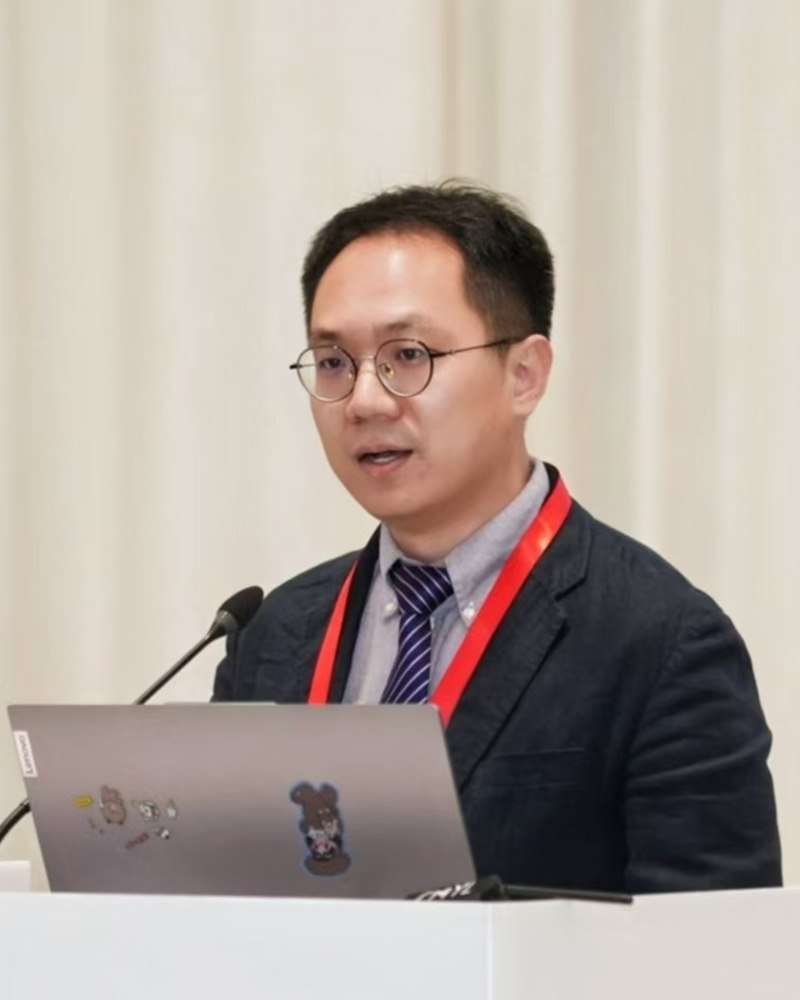
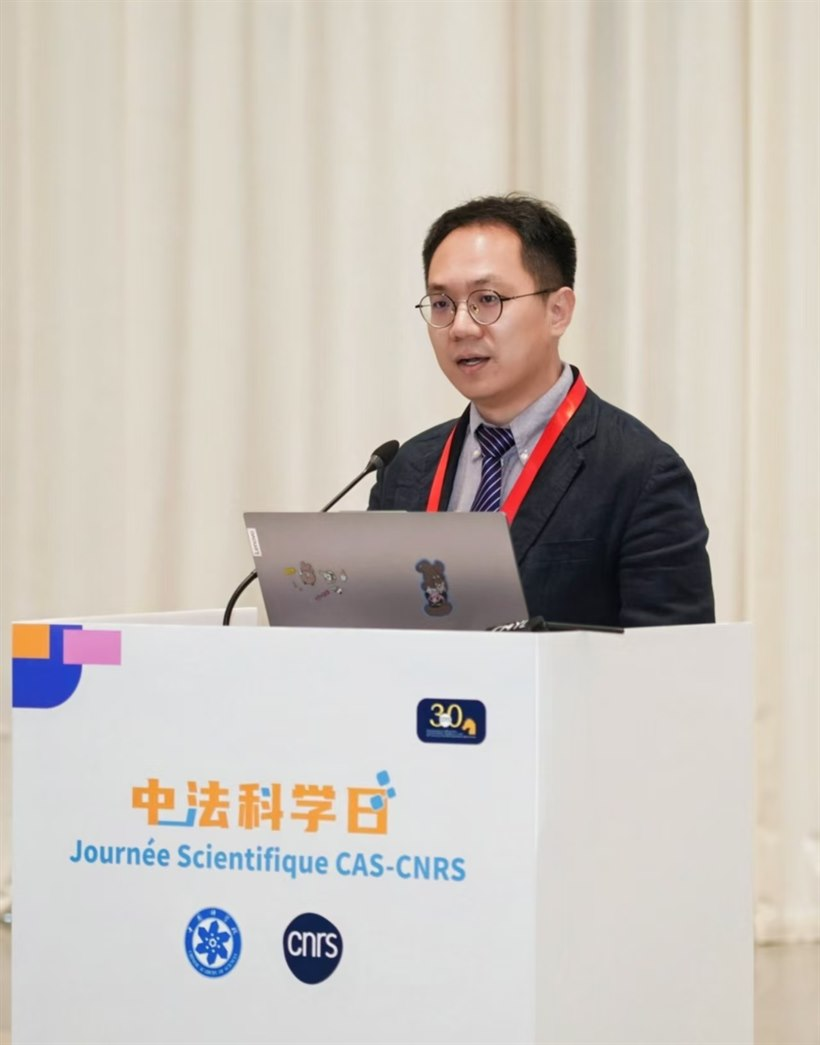
Show the PI photograph whole rather than cropped
Replaced the 4:5 crop with the full frame, scaled only. The profile image no
longer forces an aspect ratio or uses object-fit: cover, so whatever
proportions a portrait has are simply honoured — measured 0.785 natural
against 0.786 displayed, so nothing is cut or stretched.

The Wix transform for this image also moves from fill to fit, so a
Wix-hosted replacement would be scaled rather than cropped too.

diff --git a/assets/styles.css b/assets/styles.css
@@ -287,7 +287,9 @@ p { margin: 0; }
   display: grid; grid-template-columns: minmax(240px, 340px) minmax(0, 1fr);
   gap: clamp(34px, 6vw, 76px); align-items: center; max-width: 1040px;
 }
-.pi img { width: 100%; aspect-ratio: 4 / 5; object-fit: cover; border: 1px solid var(--line); }
+/* No forced ratio and no cover: the portrait is shown whole and simply scaled
+   to the column, whatever proportions it happens to have. */
+.pi img { width: 100%; height: auto; border: 1px solid var(--line); }
 .pi__body > * + * { margin-top: 14px; }
 .pi__zh { font-family: var(--mono); font-size: 1.02rem; color: var(--accent); }
 

diff --git a/people/index.html b/people/index.html
@@ -90,7 +90,7 @@
 import { getTeam, getAlumni, hydrate, wixImage, esc } from '/assets/wix.js';
 hydrate(document.getElementById('pi'), async () => (await getTeam()).slice(0, 1), ([p]) => `
   <div class="pi">
-    <img src="${esc(wixImage(p.photo, 560, 700))}" alt="${esc(p.nameEn)}" />
+    <img src="${esc(wixImage(p.photo, 760, 980, 'fit'))}" alt="${esc(p.nameEn)}" />
     <div class="pi__body">
       <p class="pi__zh">${esc(p.nameZh)}</p>
       <h2 class="h-section" style="font-size:clamp(1.9rem,3.2vw,2.6rem)">${esc(p.nameEn)}, Ph.D.</h2>
